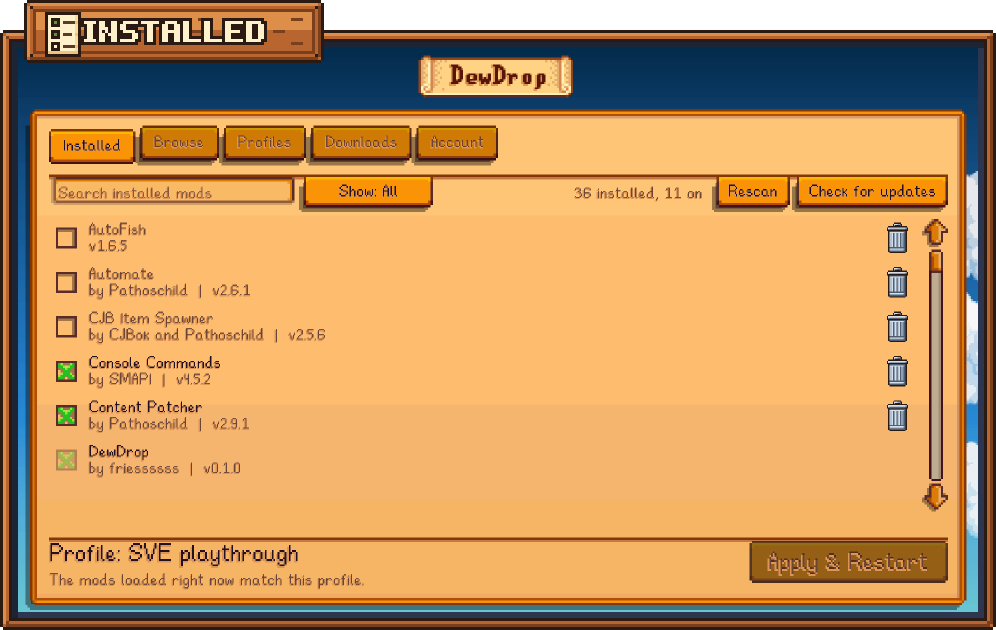
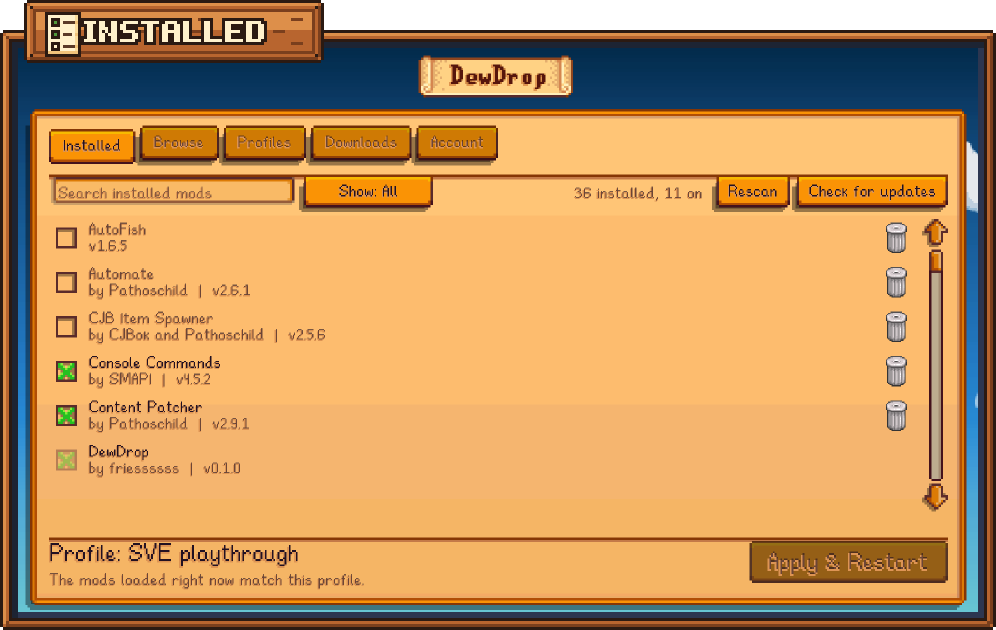
Capture the uninstall UI for the docs instead of drawing it in
The Installed screenshot had trash cans drawn onto an older capture. It's now
a real capture, and the guides gain real captures of the uninstall dialog, an
uninstalled row with Undo, and a mod page showing its installed file. The
overlay code is gone, and the docs say to capture again rather than draw on a
capture. The debug bridge page notes that the menu stops updating while the
game window is in the background.

diff --git a/docs/contributing/docs-and-art.md b/docs/contributing/docs-and-art.md
@@ -173,7 +173,7 @@ Random details, like where clouds and flowers go, come from fixed seeds. Every b
 | `lib/font.mjs` | Dewdrop Sans: the glyphs, plus `measure`, `wrap` and `rasterize`. |
 | `lib/canvas.mjs` | `Canvas`, a small RGBA drawing surface at one art pixel per canvas pixel. It has shapes, dithering, gradients, outlines and text. `blitResized` shrinks real screenshots smoothly, `scaled(n)` enlarges art with hard pixel edges, and `save` writes a PNG. |
 | `lib/png.mjs` | A PNG reader and writer, and an animated-PNG writer for animations such as `demo-tour.png`. |
-| `lib/components.mjs` | The building blocks: `dewDrop`, `leaf`, `logoMark`, `panel`, `plaque`, `arrow`, `icon` (with `ICON_NAMES`), `trashCan`, `framedShot` and `card`. |
+| `lib/components.mjs` | The building blocks: `dewDrop`, `leaf`, `logoMark`, `panel`, `plaque`, `arrow`, `icon` (with `ICON_NAMES`), `framedShot` and `card`. |
 | `lib/scenes.mjs` | Larger scenes: `sky`, `cloud`, `hills`, `sparkle`, `meadow`, `banner`, `ribbon` and `divider`, plus the seeded random generator `rng`. |
 | `build.mjs` | Draws every image the docs use and saves it into `docs/.gitbook/assets/`. |
 
@@ -186,7 +186,6 @@ Random details, like where clouds and flowers go, come from fixed seeds. Every b
 * `stackedNode(title, body, { width, iconName, border, minHeight })`: a diagram step with the icon on top and centered text. `nodeHeight` tells you how tall one will be, so a row of steps can share a height; `build.mjs` lays rows out with its `flowRow` helper.
 * `arrow(canvas, x0, y0, x1, y1)`: a thick arrow. It only draws horizontal or vertical arrows.
 * `icon(name)`: one of the 16×16 icons.
-* `trashCan()`: an 18×26 metal trash can in the icon style, drawn over the **Installed** screenshot's rows (see [Screenshots](#screenshots)).
 
 ### Adding an icon
 
@@ -207,16 +206,25 @@ Every row must be the same length and use only these letters, or the build stops
 
 ## Screenshots
 
-Screenshots are the one place real game pixels appear. Each one is a real capture from the game, never a mock-up.
+Screenshots are the one place real game pixels appear. Each one is a real capture from the game, never a mock-up. When the menu changes, capture the screenshot again; never draw new UI onto an old capture.
 
-The one exception is small UI added after a capture was taken. `OVERLAYS` in `build.mjs` draws it in palette colors, at the spot the game draws it, as the build loads the capture (the file in `tools/docs-art/shots/` isn't changed), until someone captures that screenshot again. Right now that's the trash cans on the rows of `installed.png`. When you replace a capture, delete its entry in `OVERLAYS`.
-
-1. Load a Debug build and capture with the [debug bridge](debug-bridge.md). Use the same setup every time: `window 1920 1080` and `uiscale 1.0`. Move your real mouse into a corner and wait for messages to clear before each `shot`. The `window` command changes the game's saved display settings, so back up `startup_preferences` in the game's data folder (`%AppData%\StardewValley` on Windows) first and put it back afterward.
+1. Load a Debug build and capture with the [debug bridge](debug-bridge.md). Use the same setup every time: `window 1920 1080` and `uiscale 1.0`. Move your real mouse into a corner and wait for messages to clear before each `shot`. The `window` command changes the game's saved display settings, so back up `startup_preferences` in the game's data folder (`%AppData%\StardewValley` on Windows) first and put it back afterward. If the game window won't stay in front while you capture, set `pauseWhenOutOfFocus` to `false` in that file too, with the game closed. Otherwise the menu stops updating while the window is in the background (see [Timing and gotchas](debug-bridge.md#timing-and-gotchas)).
 2. Check every capture for anything personal before you commit it, such as your Nexus Mods user name. Blur it in the raw capture itself, and list the area in `REDACT` in `build.mjs` as a second guard.
 3. Save the raw captures in `tools/docs-art/shots/` under the names listed in `SHOTS` in `build.mjs`, then rebuild. Menu captures are cropped to the menu. `title-prompt.png`, the **Load your profile?** box, is cropped to the box with the fixed rectangle listed for it in `SHOTS`. `framedShot` adds the frame and label, and the result goes into `docs/.gitbook/assets/` as `shot-<name>.png`. Most of the same captures also make up the `demo-tour.png` animation.
 4. Build Release again afterward so you don't keep playing on the Debug build.
 
 The **Load your profile?** box only opens on a normal launch whose mods differ from your profile. To capture `title-prompt.png`, set that up as described in [Testing starting in your profile](debug-bridge.md#testing-starting-in-your-profile), then send `shot` once the box is open. The capture shows the box with its **Start in my profile from Steam from now on** checkbox, ticked, and the note under it. The box only shows that checkbox on Windows with the Steam version of the game, while **Start in my profile from Steam** is off and can be used, and it starts unticked right after a restart that didn't come back. Capture it on a launch that meets those conditions, and answer **Not now** afterward so nothing changes.
+
+The menu captures show a profile named **SVE playthrough**, with 11 of 36 mods on. Start the game in that profile, by starting SMAPI with `--mods-path` pointing at `Selected Mods` as **Apply & Restart** does, so the bottom bar says the mods loaded right now match it. `mod-page-installed.png` is Content Patcher's page, with its newest version installed.
+
+`uninstall-dialog.png` and `uninstalled.png` show a stand-in mod, never one of your real mods:
+
+1. Put a folder named `Example Mod` in your `Mods` folder, holding only a `manifest.json` with the name **Example Mod**, the author **You**, the version `1.0.0`, a made-up unique ID and an `EntryDll`.
+2. Click **Rescan**. If that turned the mod on, turn it off again.
+3. Scroll it into view with `key Down`, click its trash can, `wait 300` and `shot` the dialog. Then send `key Escape`.
+4. Send `uninstall` with its unique ID, and `shot` the row.
+
+DewDrop moves the folder out of `Mods` when the game closes and deletes it at the next start.
 
 ## Rules
 

diff --git a/docs/contributing/debug-bridge.md b/docs/contributing/debug-bridge.md
@@ -252,6 +252,11 @@ At 3840×2160 the frame is at x 1120, y 501, 1600 × 1150.
 * `scroll` only moves a list when your real mouse is over it. Use `key Down` and `key Up` instead.
 * The tooltip box and the tab highlight are drawn at your real mouse position. The game also re-hovers at the real mouse every tick, so put `hover` and `shot` in the same file with no `wait` between them.
 
+**The game window in the background**
+
+* When `pauseWhenOutOfFocus` is `true` in the game's `startup_preferences` file, the game skips its own update while its window isn't in front. The bridge still runs commands, and clicks, keys and `shot` still work, but the menu stops updating itself. For example, the **Profiles** tab's buttons keep the state they had, so **Use this profile** stays grayed out after **Duplicate** until you click another tab and back. A mod's page never shows its **Installed** note or its **Uninstall** button.
+* So keep the game window in front, or close the game, set `pauseWhenOutOfFocus` to `false` and start it again. Back up `startup_preferences` first and put it back afterward.
+
 **Clean screenshots**
 
 * Info messages stay for 5 seconds and error messages for 8. Wait for them to clear, or click one to dismiss it.
@@ -263,7 +268,7 @@ At 3840×2160 the frame is at x 1120, y 501, 1600 × 1150.
 * A `wait` on the last line doesn't hold back `DONE`.
 * A line starting with `#` isn't a comment. It gets `unknown command`.
 
-**Not tested yet:** whether `uiscale` is saved between sessions, how the bridge behaves while the window is minimized or in the background, and sending `open` while the menu is already open.
+**Not tested yet:** whether `uiscale` is saved between sessions, how the bridge behaves while the window is minimized, and sending `open` while the menu is already open.
 
 ## Testing starting in your profile
 

diff --git a/docs/guides/installed.md b/docs/guides/installed.md
@@ -106,6 +106,8 @@ Uninstalling deletes a mod's folder from your `Mods` folder, settings included: 
 2. A dialog asks "Uninstall *name*?" and says what will happen (see below).
 3. Click **Uninstall**, or press **Enter**. To keep the mod, click **Cancel**.
 
+<figure><img src="../.gitbook/assets/shot-uninstall-dialog.png" alt="The Uninstall Example Mod? dialog over the Installed tab. It says DewDrop deletes its folder, settings included, when the game closes, and that until then you can undo it on the Installed tab. Below are the Uninstall and Cancel buttons."><figcaption><p>The dialog that opens when you click a mod's trash can.</p></figcaption></figure>
+
 A message says "Uninstalled *name*. It's deleted when the game closes."
 
 Under the question, the dialog says one of these:
@@ -131,6 +133,8 @@ The mod's row stays on the list, so you can change your mind:
 * It has no checkbox, its name is grayed out, and it says **Deleted when the game closes** in orange, next to an **Undo** button.
 * It stays in every **Show:** view, and in a search when it matches.
 * Clicking the row only reminds you: "*name* is uninstalled. Click Undo to keep it."
+
+<figure><img src="../.gitbook/assets/shot-uninstalled.png" alt="The Installed tab with Example Mod uninstalled. Its row has no checkbox and says Deleted when the game closes in orange, next to an Undo button, while the rows around it keep their checkboxes and trash cans. The toolbar reads 36 installed, 11 on, 1 to delete, and the bottom bar says the mods loaded right now match the profile and that uninstalled mods are deleted when the game closes."><figcaption><p>An uninstalled mod stays on the list, with Undo, until the game closes.</p></figcaption></figure>
 
 Everywhere else, DewDrop treats the mod as gone. For example, Browse and the mod's page no longer show it as installed.
 

diff --git a/docs/guides/mod-page.md b/docs/guides/mod-page.md
@@ -45,6 +45,8 @@ Every file has a button on its right. What it says depends on your Nexus Mods ac
 
 Why the difference? Nexus Mods only lets Premium members download straight into an app. Free accounts download through the website. [Free vs Premium downloads](../nexus-mods/free-vs-premium.md) explains it.
 
+<figure><img src="../.gitbook/assets/shot-mod-page-installed.png" alt="Content Patcher's page in DewDrop. The top bar shows Installed v2.9.1 in green and a red Uninstall button, next to Show old files and Open on Nexus. In the file list, the Content Patcher 2.9.1 file says Installed in green, and the older 2.8.1 file has an Install button."><figcaption><p>A mod you already have: its file says Installed, and Uninstall is in the top bar.</p></figcaption></figure>
+
 ### Which file counts as installed
 
 For each copy of the mod you have, DewDrop marks at most one file:
